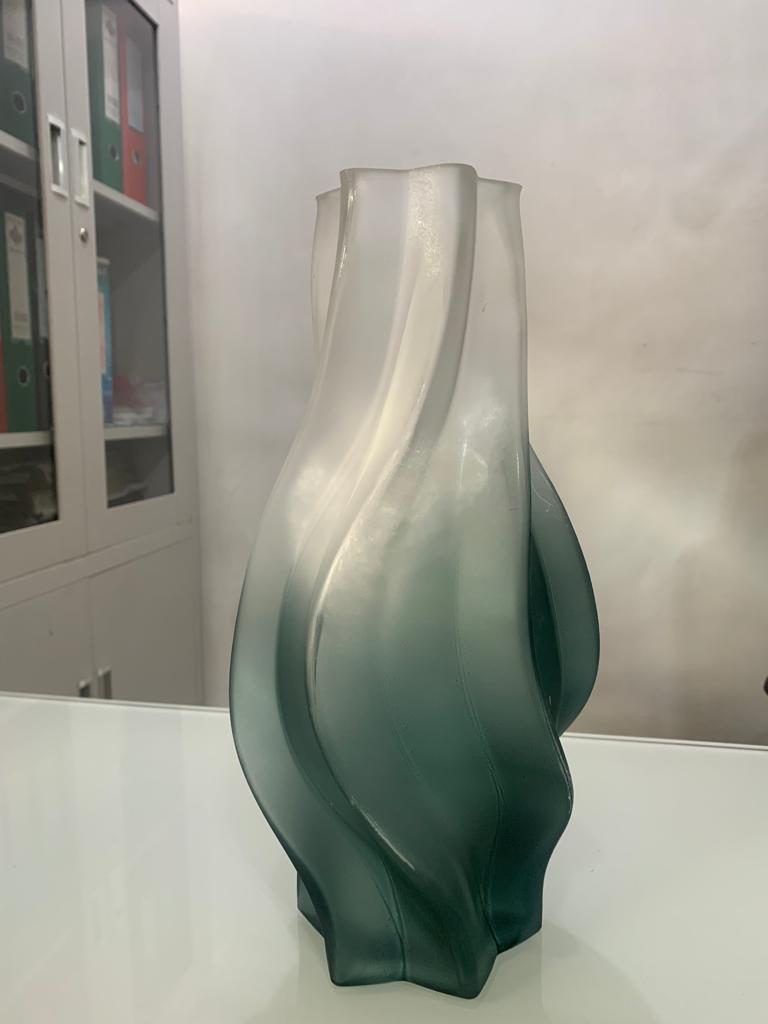
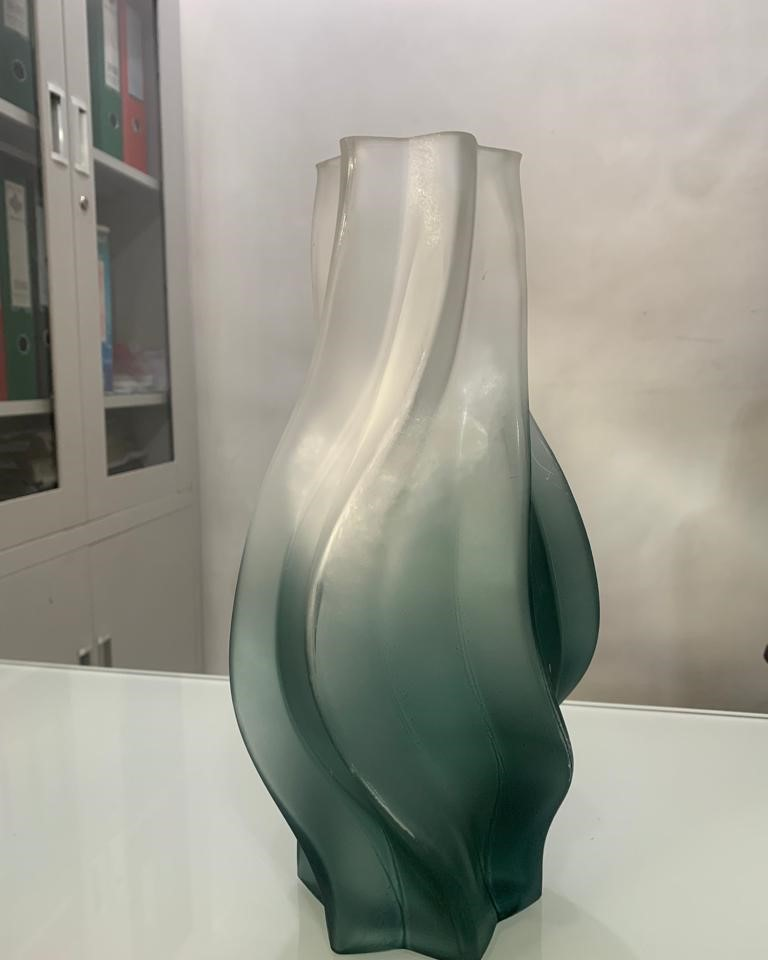
new file:   src/assets/contact.jpg 	new file:   src/pages/Conditions.jsx

diff --git a/src/pages/contactus.jsx b/src/pages/contactus.jsx
@@ -1,7 +1,7 @@
 import React from 'react'
 import Navbar from '../component/navbar'
 import Footer from '../component/footer'
-import pexels from '../assets/pexels.jpg'
+import contact from '../assets/contact.jpg'
 import { IoCallOutline, IoMailOpenOutline } from "react-icons/io5";
 import { PiHouseLine} from "react-icons/pi";
 import { LuFlower } from "react-icons/lu";
@@ -34,9 +34,9 @@ const Contactus = () => {
       </div>
     </div>
     <div  className='w-full my-16 relative'>
-            <img src={pexels}
-            className='top-o left-0  h-full min-h-[650px] object-cover' alt="" />
-            <div className='absolute md:w-1/2  top-0 flex flex-col p-10 text-black'>
+            <img src={contact}
+            className=' h-full min-h-[650px] object-cover' alt="" />
+            <div className='absolute md:w-1/2  top-0 right-0 flex flex-col p-10 text-black'>
                 <div>
                     <h2 className='font-signature text-5xl text-center m-5'>Send Us a Message</h2>
                     <div className='flex flex-col gap-6 w-full'>

diff --git a/src/component/contact.jsx b/src/component/contact.jsx
@@ -1,12 +1,12 @@
 import React from 'react'
-import pexels from '../assets/pexels.jpg'
+import contact from '../assets/contact.jpg'
 
 const Contact = () => {
   return (
     <div  className='w-full my-16 relative'>
-            <img src={pexels}
-            className='top-o left-0  h-full min-h-[750px] object-cover' alt="" />
-            <div className='absolute md:w-1/2  top-0 flex flex-col p-10 text-black'>
+            <img src={contact}
+            className='  h-full min-h-[750px] object-cover' alt="" />
+            <div className='absolute md:w-1/2  top-0 right-0 flex flex-col p-10 text-black'>
                 <div>
                     <h2 className='font-signature text-5xl text-center m-5'>Contact us</h2>
                     <div className='flex flex-col gap-6 w-full'>

diff --git a/src/pages/category/vase.jsx b/src/pages/category/vase.jsx
@@ -162,7 +162,7 @@ const Vase = () => {
             links.map(({ id, src, title, price}) => (
                 <div key={id} className='flex flex-col drop-shadow-xl '>
                     <div className='relative'>
-                        <img src={src} alt='products' className='h-[400px] w-[400px]' />
+                        <img src={src} alt='products'/>
                         <button className='absolute bottom-0 bg-black/90 text-white p-1 text-sm font-bold  w-full'>Quick View</button>
                     </div>
                     <div className='flex flex-col sm:flex-row gap-3 justify-between font-semibold text-sm py-3 bg-gradient-to-t from-black/5 via-white to-white'>

diff --git a/src/routes.jsx b/src/routes.jsx
@@ -19,6 +19,7 @@ const Wine = lazy(() => import("./pages/category/wines"));
 const Vase = lazy(() => import("./pages/category/vase"));
 const Teddy = lazy(() => import("./pages/category/teddy-bears"));
 const Contactus = lazy(() => import("./pages/contactus"));
+const Conditions = lazy(() => import("./pages/Conditions"));
 
 
 const BrowserRouter = createBrowserRouter([
@@ -163,6 +164,14 @@ const BrowserRouter = createBrowserRouter([
     element: (
       <React.Suspense>
         <Contactus />
+      </React.Suspense>
+    ),
+  },
+  {
+    path: "/Terms-and-Conditions",
+    element: (
+      <React.Suspense>
+        <Conditions />
       </React.Suspense>
     ),
   },

diff --git a/src/component/footer.jsx b/src/component/footer.jsx
@@ -22,6 +22,11 @@ const Footer = () => {
           link: "/contact",
           title: "Contact us",
         },
+        {
+          id: 3,
+          link: "/Terms-and-Conditions",
+          title: "Terms & Conditions",
+        },
       ];
 
       

diff --git a/src/pages/Conditions.jsx b/src/pages/Conditions.jsx
@@ -1,0 +1,9 @@
+import React from 'react'
+
+const Conditions = () => {
+  return (
+    <div>Conditions</div>
+  )
+}
+
+export default Conditions
